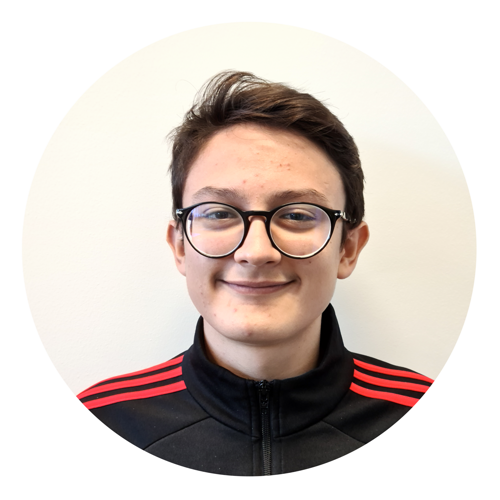
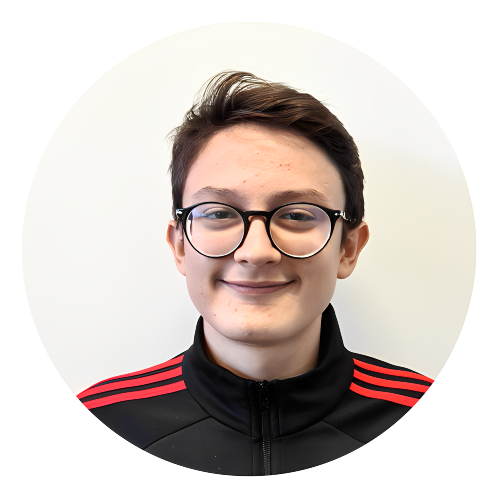
Fatto le modifiche richieste

diff --git a/website/static/js/avatardb.js b/website/static/js/avatardb.js
@@ -1,4 +1,4 @@
-var MAX_STUDENTS = 11;
+var MAX_STUDENTS = 12;
 
 function get_4_students() {
 	student = new Set();
@@ -17,31 +17,31 @@ var avatardb = [
 		desc: 'Un ragazzo molto sorridente che sarà lieto di accogliervi in negozio per risolvere i vostri problemi'
 	},
 	{
-		img: 'img/team/avatar-cellini.jpg',
+		img: 'img/team/avatar-cellini.png',
 		nome: 'Marco Cellini',
 		ruolo: 'Tutor',
 		desc: "Non sai nulla? Anch'io ero come te, adesso se ti serve una mano basta chiedere."
 	},
 	{
-		img: 'img/team/avatar-licciardino.jpg',
+		img: 'img/team/avatar-licciardino.png',
 		nome: 'Matteo Licciardino',
 		ruolo: 'Software Assistant',
 		desc: 'Appassionato di programmazione, hardware troubleshooting e grafica. Saprà certamente aiutarti!!'
 	},
 	{
-		img: 'img/team/avatar-mastroianni.jpg',
+		img: 'img/team/avatar-mastroianni.png',
 		nome: 'Alberto Mastroianni',
 		ruolo: 'Software Assistant',
 		desc: 'Sempre disponibile per aiutare o chiarire qualunque dubbio nel mondo del software.'
 	},
 	{
-		img: 'img/team/avatar-canale.jpeg',
+		img: 'img/team/avatar-canale.png',
 		nome: 'Andrea Canale',
 		ruolo: 'Hardware Assistant',
 		desc: 'Abile smanettone, capace e affidabile.'
 	},
 	{
-		img: 'img/team/avatar-furina.jpg',
+		img: 'img/team/avatar-furina.png',
 		nome: 'Emanuele Furina',
 		ruolo: 'Hardware Assistant',
 		desc: 'Il computer? Lo conosco come le mie tasche!'
@@ -53,37 +53,37 @@ var avatardb = [
 		desc: 'Il computer? Lo conosco come le mie tasche!'
 	},
 	{
-		img: 'img/team/avatar-salvatore.jpg',
+		img: 'img/team/avatar-salvatore.png',
 		nome: 'Samuel Salvatore',
 		ruolo: 'Tutor',
 		desc: "Preparato ed Appassionato. E' pronto a soddisfare ogni tua esigenza"
 	},
 	{
-		img: 'img/team/avatar-mariotti.jpg',
+		img: 'img/team/avatar-mariotti.png',
 		nome: 'Matteo Mariotti',
 		ruolo: 'Software Assistant',
 		desc: 'Matteo è come te, pieno di domande. Ora però sarà pronto a darti una risposta!'
 	},
 	{
-		img: 'img/team/avatar-peluso.jpg',
+		img: 'img/team/avatar-peluso.png',
 		nome: 'Sebastiano Peluso',
 		ruolo: 'Customer Support',
 		desc: 'Hai un problema col computer? Sebastiano saprà aiutarti a trovare la soluzione'
 	},
 	{
-		img: 'img/team/avatar-widson.jpg',
+		img: 'img/team/avatar-widson.png',
 		nome: 'Okoro Wisdom',
 		ruolo: 'Hardware Assistant',
 		desc: 'Ci mette passione nel trovare la soluzione!'
 	},
-
-	/*
 	{
-		img: 'img/team/avatar-sola.png',
-		nome: 'MATTEO SOLA',
+		img: 'img/team/avatar-villaorduna.jpg',
+		nome: 'Daniele Villaorduna',
 		ruolo: 'Hardware Assistant',
 		desc: 'Parla poco ma agisce molto. Vieni a conoscerlo, non te ne pentirai!'
 	},
+
+	/*
 	{
 		img: 'img/team/avatar-solavagione.png',
 		nome: 'MATTEO SOLAVAGIONE',

diff --git a/website/src/routes/index.svelte b/website/src/routes/index.svelte
@@ -247,7 +247,7 @@
 		  <!-- Team Item Starts -->
 		  <div class="team-item wow fadeInRight" data-wow-delay="0.2s">
 			<div class="team-img">
-			  <img id="avatar-img0" class="img-fluid" src="img/team/avatar-cellini.jpg" alt="" width="143">
+			  <img id="avatar-img0" class="img-fluid" src="img/team/avatar-cellini.png" alt="" width="143">
 			</div>
 			<div class="contetn">
 			  <div class="info-text">
@@ -268,7 +268,7 @@
 		  <!-- Team Item Starts -->
 		  <div class="team-item wow fadeInRight" data-wow-delay="0.4s">
 			<div class="team-img">
-			  <img id="avatar-img1" class="img-fluid" src="img/team/avatar-licciardino.jpg" alt="" width="143">
+			  <img id="avatar-img1" class="img-fluid" src="img/team/avatar-licciardino.png" alt="" width="143">
 			</div>
 			<div class="contetn">
 			  <div class="info-text">
@@ -289,7 +289,7 @@
 		  <!-- Team Item Starts -->
 		  <div class="team-item wow fadeInRight" data-wow-delay="0.6s">
 			<div class="team-img">
-			  <img id="avatar-img2" class="img-fluid" src="img/team/avatar-mastroianni.jpg" alt="" width="143">
+			  <img id="avatar-img2" class="img-fluid" src="img/team/avatar-mastroianni.png" alt="" width="143">
 			</div>
 			<div class="contetn">
 			  <div class="info-text">
@@ -310,7 +310,7 @@
 		  <!-- Team Item Starts -->
 		  <div class="team-item wow fadeInRight" data-wow-delay="0.8s">
 			<div class="team-img">
-			  <img id="avatar-img3" class="img-fluid" src="img/team/avatar-canale.jpeg" alt="" width="143">
+			  <img id="avatar-img3" class="img-fluid" src="img/team/avatar-canale.png" alt="" width="143">
 			</div>
 			<div class="contetn">
 			  <div class="info-text">
